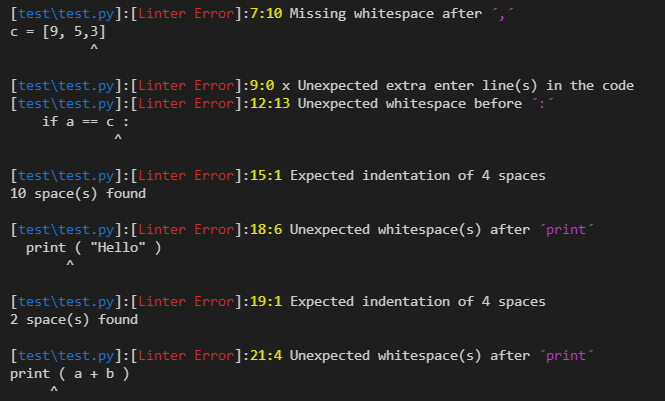
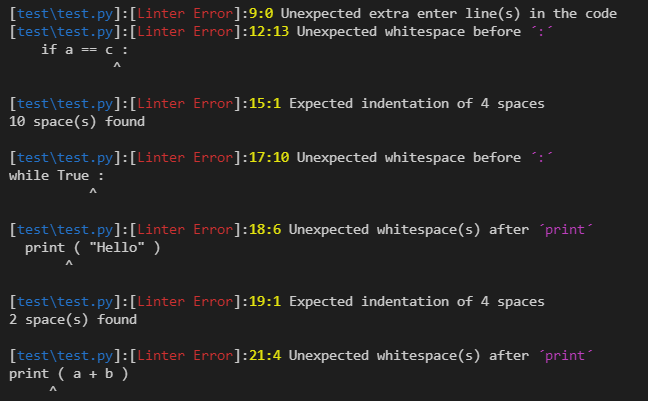
Add more images and a better description in README.md

diff --git a/lib/error_checker.rb b/lib/error_checker.rb
@@ -86,7 +86,7 @@ class ErrorChecker < FileLector
 
   def check_empty_spaces
     @line.scan(/\w+/).empty? ? @empty_lines += 1 : @empty_lines = 0
-    @error_message.concat("#{@lines_counter}:0 x Unexpected extra enter line(s) in the code\s") if @empty_lines > 1
+    @error_message.concat("#{@lines_counter}:0 Unexpected extra enter line(s) in the code\s") if @empty_lines > 1
   end
 
   def add_color_to_message

diff --git a/test/test.py b/test/test.py
@@ -14,7 +14,7 @@ if a == a:
         if a > b:
           print('Hello')
 
-while a == 5:
+while True :
   print ( "Hello" )
   break
 

diff --git a/README.md b/README.md
@@ -6,6 +6,12 @@
 
 As you can see in this repository, the main idea is to create python linters, (**linters**) are the mean tool to analye the source code to detect programming errors, style flaws, bugs, suspucius code, etc.
 
+<center>
+<h2>Bad Code  vs  Good Code</h2>
+</center>
+
+<img src="img/bad_code.PNG" width="48%"> <img src="img/good_code.PNG" width="48%">
+
 ## How to use it 📜
 
 ---
